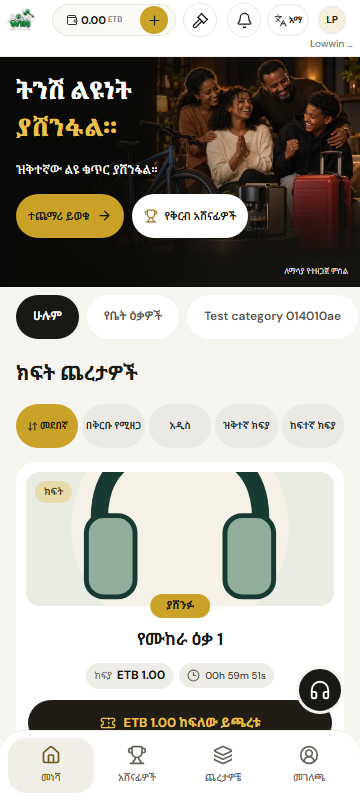
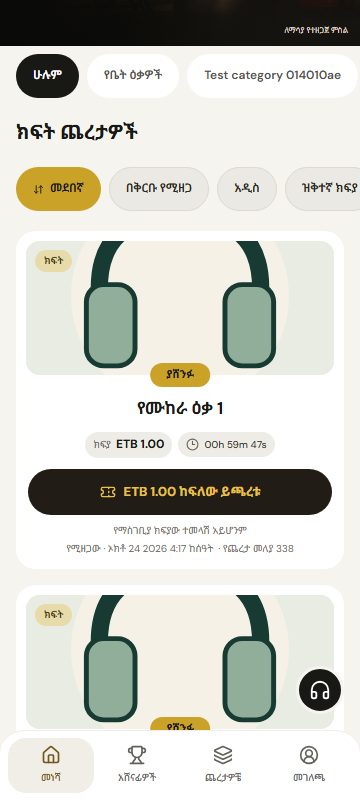
Add illustrated Home guide and scrollable sorting
Replace the separate Home footer with one Terms link inside the bilingual guide, retaining lazy Learn More and focus handling.

diff --git a/tests/redesign-browser/home-winners.spec.ts b/tests/redesign-browser/home-winners.spec.ts
@@ -26,15 +26,30 @@ test('homepage, final results, nested Back, live batches and Winners navigation'
   const navigation=page.getByRole('navigation',{name:'Your navigation'});await expect(navigation).toBeVisible();await expect(navigation.getByRole('link')).toHaveCount(4);
   await expect(navigation.getByRole('link',{name:'Home',exact:true})).toHaveAttribute('aria-current','page');
   const cards=page.locator('#discover-auctions .auction-card');await expect(cards).toHaveCount(10);
-  const sortLinks=page.getByRole('navigation',{name:'Auction sorting'}).getByRole('link');await expect(sortLinks).toHaveCount(5);
-  const checkSortFit=async()=>{const boxes=await sortLinks.evaluateAll(nodes=>nodes.map(node=>{const r=node.getBoundingClientRect();return {left:r.left,right:r.right,top:r.top,height:r.height,overflow:node.scrollWidth>node.clientWidth+1}}));for(const box of boxes){expect(box.left).toBeGreaterThanOrEqual(0);expect(box.right).toBeLessThanOrEqual(Number(info.project.name));expect(box.height).toBeGreaterThanOrEqual(44);expect(box.overflow).toBe(false);expect(Math.abs(box.top-boxes[0].top)).toBeLessThan(1)}};await checkSortFit();
+  const sortNav=page.getByRole('navigation',{name:'Auction sorting'}),sortLinks=sortNav.getByRole('link');await expect(sortLinks).toHaveCount(5);
+  const checkSortFit=async(language:'en'|'am'='en')=>{
+   expect(await sortNav.evaluate(node=>getComputedStyle(node).overflowX)).toMatch(/auto|scroll/);
+   const boxes=await sortLinks.evaluateAll(nodes=>nodes.map(node=>{const r=node.getBoundingClientRect(),label=node.querySelector('span')??node;const range=document.createRange();range.selectNodeContents(label);return {top:r.top,height:r.height,overflow:node.scrollWidth>node.clientWidth+1,labelHeight:range.getBoundingClientRect().height,lineHeight:parseFloat(getComputedStyle(label).lineHeight)||parseFloat(getComputedStyle(label).fontSize)*1.5}}));
+   for(const box of boxes){expect(box.height).toBeGreaterThanOrEqual(44);expect(box.overflow).toBe(false);expect(box.labelHeight).toBeLessThanOrEqual(box.lineHeight*1.5);expect(Math.abs(box.top-boxes[0].top)).toBeLessThan(1)}
+   const canScroll=await sortNav.evaluate(node=>node.scrollWidth>node.clientWidth+1);await sortLinks.last().scrollIntoViewIfNeeded();await expect(sortLinks.last()).toBeInViewport({ratio:1});if(canScroll)expect(await sortNav.evaluate(node=>node.scrollLeft)).toBeGreaterThan(0);await sortNav.locator('a[aria-current="page"]').scrollIntoViewIfNeeded();await sortNav.screenshot({path:`${root}/sorts-${info.project.name}-${language}.png`});
+  };await checkSortFit();
+  const categoryBeforeSort=new URL(page.url()).searchParams.get('category');await sortLinks.last().click();await expect(page).toHaveURL(/sort=fee-high/);await expect(sortLinks.last()).toHaveAttribute('aria-current','page');await expect(sortLinks.last()).toBeInViewport({ratio:1});expect(new URL(page.url()).searchParams.get('q')).toBe(marker);expect(new URL(page.url()).searchParams.get('category')).toBe(categoryBeforeSort);
+  await sortLinks.first().click();await expect(sortLinks.first()).toHaveAttribute('aria-current','page');await expect(cards).toHaveCount(10);
   const firstCard=cards.first(),art=await firstCard.locator('.auction-card-art').boundingBox();expect(art!.width/art!.height).toBeCloseTo(2.3,1);await expect(firstCard.locator('.auction-card-win')).toHaveText('Win');
   const bidAction=firstCard.getByRole('button',{name:'Pay ETB 1.00 & bid',exact:true});expect((await bidAction.boundingBox())!.height).toBeGreaterThanOrEqual(46);await bidAction.click();await expect(page.getByRole('dialog')).toBeVisible();await page.keyboard.press('Escape');await expect(page.getByRole('dialog')).toHaveCount(0);
-  const selection=await page.locator('#recent-winners,nav[aria-label="Auction categories"],#discover-auctions').evaluateAll(nodes=>nodes.map(node=>node.id||node.getAttribute('aria-label')));expect(selection).toEqual(['Auction categories','discover-auctions','recent-winners']);
+  const selection=await page.locator('#recent-winners,nav[aria-label="Auction categories"],#discover-auctions,#how-lowwin-works').evaluateAll(nodes=>nodes.map(node=>node.id||node.getAttribute('aria-label')));expect(selection).toEqual(['Auction categories','discover-auctions','recent-winners','how-lowwin-works']);
   await page.getByRole('button',{name:'Load more',exact:true}).click();await expect(cards).toHaveCount(12);expect(new Set(await cards.locator('h3').allTextContents()).size).toBe(12);
   await page.getByRole('navigation',{name:'Auction sorting'}).getByRole('link',{name:'Lowest fee',exact:true}).click();await expect(cards).toHaveCount(10);await expect(page).toHaveURL(/sort=fee-low/);expect(new URL(page.url()).searchParams.get('q')).toBe(marker);
   await page.locator('#home-headline').scrollIntoViewIfNeeded();await page.screenshot({path:`${root}/home-${info.project.name}-en.png`});
   await cards.first().scrollIntoViewIfNeeded();await page.screenshot({path:`${root}/auction-card-${info.project.name}-en.png`});
+  const guide=page.locator('#how-lowwin-works');
+  const checkGuide=async(language:'en'|'am')=>{
+   await expect(guide.locator('ol>li')).toHaveCount(3);await expect(guide.locator('[data-example-number]')).toHaveCount(5);expect(await guide.locator('[data-example-number]').evaluateAll(nodes=>nodes.map(node=>node.textContent?.match(/\d+/)?.[0]))).toEqual(['2','2','4','5','5']);expect((await guide.locator('[data-example-number]').allTextContents()).every(text=>!text.includes('ETB'))).toBe(true);await expect(guide.locator('[data-winning-example]')).toHaveCount(1);await expect(guide.locator('[data-winning-example]')).toContainText('4');
+   await expect(guide.locator('a[href="/terms"]')).toHaveCount(1);if(language==='en')await expect(guide.getByRole('link',{name:'Terms and conditions apply',exact:true})).toHaveAttribute('href','/terms');await expect(page.locator('a[href="/terms"]')).toHaveCount(1);await expect(page.locator('.page-footer')).toHaveCount(0);expect(await guide.evaluate(node=>node.scrollWidth<=node.clientWidth)).toBe(true);
+   const learnButton=guide.getByRole('button',{name:language==='en'?'Learn more':'ተጨማሪ ይወቁ',exact:true});expect((await learnButton.boundingBox())!.height).toBeGreaterThanOrEqual(44);await guide.scrollIntoViewIfNeeded();await guide.screenshot({path:`${root}/guide-${info.project.name}-${language}.png`});
+   await learnButton.click();await expect(page.getByRole('dialog')).toBeVisible();await page.keyboard.press('Escape');await expect(page.getByRole('dialog')).toHaveCount(0);await expect(learnButton).toBeFocused();
+   await learnButton.click();await expect(page.getByRole('dialog')).toBeVisible();await page.goBack();await expect(page.getByRole('dialog')).toHaveCount(0);await expect(learnButton).toBeFocused();
+  };await checkGuide('en');
   await page.locator('#recent-winners').scrollIntoViewIfNeeded();await page.screenshot({path:`${root}/recent-winners-${info.project.name}-en.png`});
   const winner=page.locator('#recent-winners').getByRole('button',{name:`Result: ${fixture.title}`,exact:true});await winner.click();
   const result=page.getByRole('dialog',{name:'Final result',exact:true});await expect(result.locator('[data-result-amount]')).toHaveCount(20);
@@ -49,7 +64,7 @@ test('homepage, final results, nested Back, live batches and Winners navigation'
   await page.getByRole('textbox',{name:'Search auctions'}).fill(marker);await page.getByRole('button',{name:'Search',exact:true}).click();await page.getByRole('navigation',{name:'Auction status'}).getByRole('link',{name:'Upcoming',exact:true}).click();await expect(page.locator('.auction-card')).toHaveCount(0);
   await navigation.getByRole('link',{name:'My Bids',exact:true}).click();await expect(page).toHaveURL(/\/my-bids$/);await navigation.getByRole('link',{name:'Profile',exact:true}).click();await expect(page).toHaveURL(/\/profile$/);
   await page.goto('/?q='+encodeURIComponent(marker));const header=page.getByRole('banner',{name:'Mini App header'});await header.getByRole('button',{name:'Language: English',exact:true}).click();await page.getByRole('menuitemradio',{name:'አማርኛ',exact:true}).click();await expect(page.locator('html')).toHaveAttribute('lang','am');await expect(page.getByRole('navigation',{name:'Your navigation'})).toContainText('አሸናፊዎች');
-  await checkSortFit();await cards.first().scrollIntoViewIfNeeded();await page.screenshot({path:`${root}/auction-card-${info.project.name}-am.png`});
+  await checkSortFit('am');await checkGuide('am');await cards.first().scrollIntoViewIfNeeded();await page.screenshot({path:`${root}/auction-card-${info.project.name}-am.png`});
   await page.locator('#home-headline').scrollIntoViewIfNeeded();await page.screenshot({path:`${root}/home-${info.project.name}-am.png`});
   await page.locator('section[aria-labelledby="home-headline"]').getByRole('button',{name:'ተጨማሪ ይወቁ',exact:true}).click();const learn=page.getByRole('dialog');await expect(learn.locator('ol>li')).toHaveCount(3);await expect(learn.locator('iframe,video')).toHaveCount(0);await page.screenshot({path:`${root}/learn-more-${info.project.name}-am.png`});await page.goBack();await expect(learn).toHaveCount(0);
   expect(await page.evaluate(()=>document.documentElement.scrollWidth<=innerWidth)).toBe(true);expect(errors).toEqual([]);expect(await reconcile(db)).toEqual([]);

diff --git a/src/components/home-auctions.tsx b/src/components/home-auctions.tsx
@@ -4,7 +4,7 @@ import {useEffect,useRef,useState} from 'react';
 import {ArrowDownUp} from 'lucide-react';
 import type {CatalogQuery,listAuctions} from '@/modules/auctions/catalog';
 import {AuctionCard} from './auction-card';
-import {MiniPhrase} from './mini-locale';
+import {MiniPhrase,useMiniLocale} from './mini-locale';
 import {usePrivateQuery} from './private-query';
 import styles from './home-banner.module.css';
 type Batch=Awaited<ReturnType<typeof listAuctions>>;
@@ -12,11 +12,13 @@ export function homeAuctionHref(query:CatalogQuery,patch:Partial<CatalogQuery>={
  const next={...query,...patch},params=new URLSearchParams();if(next.category)params.set('category',next.category);if(next.sort!=='code')params.set('sort',next.sort);if(next.q)params.set('q',next.q);return '/'+(params.size?'?'+params:'');
 }
 export function HomeAuctions({initial,query}:{initial:Batch;query:CatalogQuery}){
+ const {language}=useMiniLocale(),sortRow=useRef<HTMLElement>(null);
  const [items,setItems]=useState(initial.items),[serverNow,setServerNow]=useState(initial.serverNow),[page,setPage]=useState(1),[totalPages,setTotalPages]=useState(initial.totalPages),[busy,setBusy]=useState(false),pending=useRef(false);
  const params=new URLSearchParams({view:'home',status:'live',sort:query.sort,page:String(page),...(query.category?{category:query.category}:{}),...(query.q?{q:query.q}:{})});
  const batch=usePrivateQuery<Batch>('/api/catalog/auctions?'+params,{enabled:page>1});
+ useEffect(()=>{const row=sortRow.current,selected=row?.querySelector<HTMLElement>('[aria-current="page"]');if(!row||!selected)return;const left=selected.getBoundingClientRect().left-row.getBoundingClientRect().left;if(left<16)row.scrollLeft+=left-16;else if(left+selected.offsetWidth>row.clientWidth-16)row.scrollLeft+=left+selected.offsetWidth-row.clientWidth+16},[query.sort,language]);
  useEffect(()=>{if(page<=1||!batch.data)return;const data=batch.data;setItems(previous=>{const codes=new Set(previous.map(item=>item.code));return [...previous,...data.items.filter(item=>!codes.has(item.code))]});setServerNow(new Date(Date.parse(data.serverNow)+Math.max(0,Date.now()-batch.updatedAt)).toISOString());setTotalPages(data.totalPages);pending.current=false;setBusy(false)},[batch.data,batch.updatedAt,page]);
  useEffect(()=>{if(batch.error){pending.current=false;setBusy(false)}},[batch.error]);
  const sorts=[['code','Default','መደበኛ'],['ending','Ends soon','በቅርቡ የሚዘጋ'],['newest','New','አዲስ'],['fee-low','Lowest fee','ዝቅተኛ ክፍያ'],['fee-high','Highest fee','ከፍተኛ ክፍያ']] as const;
- return <section id="discover-auctions" className={`${styles.section} ${styles.homeFeed}`}><h2 className={styles.feedTitle}><MiniPhrase en="Live auctions" am="ክፍት ጨረታዎች"/></h2><nav className={styles.sortChips} aria-label="Auction sorting">{sorts.map(([value,en,am])=><Link key={value} aria-current={query.sort===value?'page':undefined} href={homeAuctionHref(query,{sort:value})}>{value==='code'&&<ArrowDownUp size={11} aria-hidden="true"/>}<span><MiniPhrase en={en} am={am}/></span></Link>)}</nav><div className={styles.list}>{items.map(item=><AuctionCard key={item.code} auction={item} serverNow={serverNow}/>)}</div>{!items.length&&<p className={styles.empty}><MiniPhrase en="No live auctions in this category yet. Choose another category or check back soon." am="በዚህ ምድብ ክፍት ጨረታ ገና የለም። ሌላ ምድብ ይምረጡ ወይም በቅርቡ ይመለሱ።"/></p>}{batch.error?<div role="alert" className={styles.loadMore}><p><MiniPhrase en="Could not load more auctions." am="ተጨማሪ ጨረታዎችን ማምጣት አልተቻለም።"/></p><button onClick={()=>batch.reload()}><MiniPhrase en="Retry" am="እንደገና ይሞክሩ"/></button></div>:(page<totalPages||busy)&&<div className={styles.loadMore}><button disabled={busy} onClick={()=>{if(pending.current)return;pending.current=true;setBusy(true);setPage(value=>value+1)}}><MiniPhrase en={busy?'Loading…':'Load more'} am={busy?'በመጫን ላይ…':'ተጨማሪ አሳይ'}/></button></div>}</section>;
+ return <section id="discover-auctions" className={`${styles.section} ${styles.homeFeed}`}><h2 className={styles.feedTitle}><MiniPhrase en="Live auctions" am="ክፍት ጨረታዎች"/></h2><nav ref={sortRow} className={styles.sortChips} aria-label="Auction sorting">{sorts.map(([value,en,am])=><Link key={value} aria-current={query.sort===value?'page':undefined} href={homeAuctionHref(query,{sort:value})}>{value==='code'&&<ArrowDownUp size={11} aria-hidden="true"/>}<span><MiniPhrase en={en} am={am}/></span></Link>)}</nav><div className={styles.list}>{items.map(item=><AuctionCard key={item.code} auction={item} serverNow={serverNow}/>)}</div>{!items.length&&<p className={styles.empty}><MiniPhrase en="No live auctions in this category yet. Choose another category or check back soon." am="በዚህ ምድብ ክፍት ጨረታ ገና የለም። ሌላ ምድብ ይምረጡ ወይም በቅርቡ ይመለሱ።"/></p>}{batch.error?<div role="alert" className={styles.loadMore}><p><MiniPhrase en="Could not load more auctions." am="ተጨማሪ ጨረታዎችን ማምጣት አልተቻለም።"/></p><button onClick={()=>batch.reload()}><MiniPhrase en="Retry" am="እንደገና ይሞክሩ"/></button></div>:(page<totalPages||busy)&&<div className={styles.loadMore}><button disabled={busy} onClick={()=>{if(pending.current)return;pending.current=true;setBusy(true);setPage(value=>value+1)}}><MiniPhrase en={busy?'Loading…':'Load more'} am={busy?'በመጫን ላይ…':'ተጨማሪ አሳይ'}/></button></div>}</section>;
 }

diff --git a/src/components/home-how-it-works.tsx b/src/components/home-how-it-works.tsx
@@ -1,12 +1,24 @@
 'use client';
 import dynamic from 'next/dynamic';
+import Link from 'next/link';
 import {useRef,useState} from 'react';
-import {ArrowRight} from 'lucide-react';
-import {MiniPhrase} from './mini-locale';
+import {ArrowRight,Hash,TicketCheck,Trophy} from 'lucide-react';
+import {MiniPhrase,useMiniLocale} from './mini-locale';
 import type {LearnMoreMedia} from '@/lib/learn-more-media';
-import styles from './home-banner.module.css';
+import styles from './home-how-it-works.module.css';
 const LearnMoreSheet=dynamic(()=>import('./learn-more-sheet'));
+const steps=[
+ {Icon:Hash,title:'Choose your number',titleAm:'ቁጥርዎን ይምረጡ',body:'Read the terms and choose a number. Entries stay private until the final result.',bodyAm:'ውሎቹን ያንብቡና ቁጥርዎን ይምረጡ። የቀረቡ ቁጥሮች ውጤቱ እስኪረጋገጥ ድረስ የግል ናቸው።'},
+ {Icon:TicketCheck,title:'Confirm your entry',titleAm:'ክፍያውን ያረጋግጡ',body:'Review the submission fee and confirm your entry. Check My Bids for your receipt.',bodyAm:'የማስገቢያ ክፍያውን ይመልከቱና ያረጋግጡ። ደረሰኝዎን በ«ጨረታዎቼ» ይመልከቱ።'},
+ {Icon:Trophy,title:'Lowest unique wins',titleAm:'ዝቅተኛው ልዩ ያሸንፋል',body:'The lowest number entered exactly once wins. View the confirmed result after closing.',bodyAm:'አንድ ጊዜ ብቻ የቀረበው ዝቅተኛ ቁጥር ያሸንፋል። ከመዝጊያ በኋላ የተረጋገጠውን ውጤት ይመልከቱ።'},
+];
 export function HomeHowItWorks({media}:{media:LearnMoreMedia|null}){
- const [open,setOpen]=useState(false),trigger=useRef<HTMLButtonElement>(null);
- return <><section id="how-lowwin-works" className={styles.help}><h2><MiniPhrase en="How bidding works" am="ጨረታው እንዴት ይሠራል"/></h2><p><MiniPhrase en="Understand the fee, choose your number, and return for the final result." am="ክፍያውን ይረዱ፣ ቁጥርዎን ይምረጡ እና የመጨረሻ ውጤቱን ይመልከቱ።"/></p><button ref={trigger} className={styles.howAction} onClick={()=>setOpen(true)}><MiniPhrase en="Learn more" am="ተጨማሪ ይወቁ"/><ArrowRight size={16}/></button></section>{open&&<LearnMoreSheet media={media} onClose={()=>setOpen(false)} returnFocusRef={trigger}/>}</>;
+ const [open,setOpen]=useState(false),trigger=useRef<HTMLButtonElement>(null),{language}=useMiniLocale();
+ return <><section id="how-lowwin-works" aria-labelledby="how-bidding-title" className={styles.guide}>
+  <header className={styles.heading}><h2 id="how-bidding-title"><MiniPhrase en="How bidding works" am="ጨረታው እንዴት ይሠራል"/></h2><p><MiniPhrase en="Three simple steps to take part." am="ለመሳተፍ ሶስት ቀላል ደረጃዎች።"/></p></header>
+  <ol className={styles.steps}>{steps.map(({Icon,title,titleAm,body,bodyAm},index)=><li key={title}><div className={styles.illustration} aria-hidden="true"><Icon size={28} strokeWidth={1.65}/><span>{index+1}</span></div><div><h3><MiniPhrase en={title} am={titleAm}/></h3><p><MiniPhrase en={body} am={bodyAm}/></p></div></li>)}</ol>
+  <div className={styles.example} role="group" aria-label={language==='am'?'የጨረታ ምሳሌ':'Bidding example'}><h3><MiniPhrase en="A quick example" am="ቀላል ምሳሌ"/></h3><div className={styles.numbers} role="group" aria-label="2, 2, 4, 5, 5">{[2,2,4,5,5].map((number,index)=><span key={index} data-example-number={number} data-winning-example={number===4||undefined} className={number===4?styles.winningNumber:styles.repeatedNumber}>{number===4&&<Trophy size={11} aria-hidden="true"/>}<strong>{number}</strong></span>)}</div><p><MiniPhrase en="4 wins: it is the lowest number picked once." am="4 አንድ ጊዜ ብቻ የቀረበ ዝቅተኛ ቁጥር ስለሆነ ያሸንፋል።"/></p></div>
+  <p className={styles.rules}><MiniPhrase en="Fee-only auctions charge the submission fee, never your chosen number. Older auctions follow their published terms." am="በማስገቢያ ክፍያ ብቻ በሚካሄዱ ጨረታዎች፣ የመረጡት ቁጥር አይከፈልም። የቆዩ ጨረታዎች የታተሙ ውሎቻቸውን ይከተላሉ።"/></p>
+  <div className={styles.actions}><button type="button" ref={trigger} aria-haspopup="dialog" onClick={()=>setOpen(true)}><MiniPhrase en="Learn more" am="ተጨማሪ ይወቁ"/><ArrowRight size={15} aria-hidden="true"/></button><Link href="/terms"><MiniPhrase en="Terms and conditions apply" am="ውሎችና ሁኔታዎች ይተገበራሉ"/></Link></div>
+ </section>{open&&<LearnMoreSheet media={media} onClose={()=>setOpen(false)} returnFocusRef={trigger}/>}</>;
 }

diff --git a/src/components/home-how-it-works.module.css b/src/components/home-how-it-works.module.css
@@ -1,0 +1,7 @@
+.guide{margin:14px 16px 8px;padding:24px 18px 10px;border:1px solid #e8e4d9;border-radius:28px;background:#fff;color:#181815}
+.heading{text-align:center;margin-bottom:26px}.heading h2{margin:0;font-size:23px;font-weight:700;line-height:1.3;letter-spacing:-.03em}.heading p{margin:8px 0 0;color:#6b665b;font-size:12px;line-height:1.6}
+.steps{padding:0;margin:0 0 24px;list-style:none;display:grid;gap:24px}.steps li{position:relative;display:grid;grid-template-columns:50px minmax(0,1fr);gap:16px;align-items:start}.steps li:not(:last-child)::after{content:"";position:absolute;left:25px;top:59px;bottom:-15px;border-left:1px dashed #d9d1bd}.illustration{position:relative;display:grid;place-items:center;width:50px;height:54px;border:1px solid #e6dcc2;border-radius:16px;background:#f5f0e2;color:#826316}.illustration>span{position:absolute;bottom:-6px;right:-5px;display:grid;place-items:center;width:20px;height:20px;border:2px solid #fff;border-radius:50%;background:#181815;color:#fff;font-size:10px;font-weight:600;line-height:1}.steps h3{margin:0 0 6px;font-size:15px;font-weight:650;line-height:1.4;letter-spacing:-.02em}.steps p{margin:0;color:#625e54;font-size:12px;line-height:1.7}
+.example{padding:18px 14px 16px;border-radius:20px;background:#f2f0e9;text-align:center}.example h3{margin:0 0 14px;font-size:13px;font-weight:650;line-height:1.4}.numbers{display:grid;grid-template-columns:repeat(5,minmax(0,1fr));gap:7px;max-width:276px;margin:0 auto}.numbers>span{position:relative;display:grid;place-items:center;min-width:0;height:47px;border:1px solid #d9d5c9;border-radius:12px;background:#e9e6dd;color:#696356}.numbers strong{font-size:21px;font-weight:600;line-height:1;font-variant-numeric:tabular-nums}.numbers>.winningNumber{transform:translateY(-3px);border-color:#181815;background:#181815;color:#edca69;box-shadow:0 5px 9px rgb(24 24 21 / 12%)}.winningNumber svg{position:absolute;top:4px;right:4px}.repeatedNumber strong{text-decoration:line-through;text-decoration-color:#a6a092;text-decoration-thickness:1px}.example p{margin:13px 0 0;font-size:12px;line-height:1.65;color:#514c42}
+.rules{margin:17px 2px 0;font-size:11px;line-height:1.75;text-align:center;color:#6b665b}.actions{display:flex;flex-direction:column;align-items:center;gap:4px;margin-top:18px}.actions button{display:inline-flex;align-items:center;justify-content:center;gap:12px;min-height:44px;padding:10px 24px;border:0;border-radius:24px;background:var(--mini-action,#c9a227);color:#181815;font:inherit;font-size:12px;font-weight:650;line-height:1.5;cursor:pointer}.actions a{display:inline-flex;align-items:center;justify-content:center;min-height:44px;max-width:100%;padding:6px 4px;color:#655f51;font-size:11px;line-height:1.6;text-align:center;text-decoration:underline;text-decoration-color:#b7af9e;text-underline-offset:3px}.actions button:focus-visible,.actions a:focus-visible{outline:2px solid #987522;outline-offset:3px}.guide:lang(am) .heading h2{font-size:22px;line-height:1.5;letter-spacing:0}.guide:lang(am) .steps h3{font-size:14px;line-height:1.65;letter-spacing:0}.guide:lang(am) .steps p{line-height:1.8}.guide:lang(am) .rules{line-height:1.8}
+@media(hover:hover){.actions button:hover{background:var(--mini-action-hover,#b48e1d)}.actions a:hover{color:#181815}}
+@media(max-width:370px){.guide{padding-inline:16px}.steps li{gap:13px;grid-template-columns:46px minmax(0,1fr)}.illustration{width:46px;height:50px}.steps li:not(:last-child)::after{left:23px;top:55px}.heading h2{font-size:22px}.numbers{gap:6px}}

diff --git a/src/components/home-banner.module.css b/src/components/home-banner.module.css
@@ -26,5 +26,5 @@
 .winnersSection{padding:24px 0 18px}.winnersSection>.heading{padding:0 16px;margin-bottom:10px}
 .homeFeed{padding-top:4px}
 
-/* Keep all five sorting choices in one row at mobile widths. */
-.sortChips{display:grid;grid-template-columns:repeat(5,minmax(0,1fr));gap:4px;overflow:visible;margin:0 0 14px;padding:0}.sortChips a{min-width:0;min-height:44px;gap:3px;padding:6px 3px;border:1px solid transparent;border-radius:22px;background:#eae9e3;color:#292820;font-size:10px;line-height:1.3;text-align:center;white-space:normal}.sortChips a[aria-current=page]{background:var(--mini-action,#c9a227);color:#181815}.sortChips a svg{flex-shrink:0}.sortChips a span{min-width:0;overflow-wrap:anywhere}.sortChips a:lang(am){font-size:10px;line-height:1.45;padding-inline:2px;gap:2px}@media(min-width:400px){.sortChips a{font-size:11px}}
+/* Natural-width sorting pills follow the same horizontal rhythm as categories. */
+.sortChips{display:flex;gap:8px;overflow-x:auto;overflow-y:hidden;margin:0 -16px 14px;padding:4px 16px 6px;scrollbar-width:none;overscroll-behavior-x:contain;scroll-padding-inline:16px}.sortChips::-webkit-scrollbar{display:none}.sortChips a{flex:none;min-width:max-content;min-height:44px;gap:6px;padding:8px 16px;border:1px solid #ddd9ce;border-radius:24px;background:#eae9e3;color:#292820;font-size:12px;line-height:1.5;text-align:center;white-space:nowrap}.sortChips a[aria-current=page]{border-color:transparent;background:var(--mini-action,#c9a227);color:#181815}.sortChips a svg{flex-shrink:0}.sortChips a span{white-space:nowrap;overflow-wrap:normal}.sortChips a:lang(am){font-size:12px;line-height:1.65;letter-spacing:0}

diff --git a/src/components/app-shell.tsx b/src/components/app-shell.tsx
@@ -1,22 +1,16 @@
 'use client';
-import Link from 'next/link';
-import {usePathname} from 'next/navigation';
 import {BottomNavigation} from './bottom-navigation';
 import {TelegramEntry} from './telegram-entry';
 import {MiniHeader} from './mini-header';
 import {useTelegram} from './telegram-provider';
-import {MiniPhrase} from './mini-locale';
-import {TelegramLink} from './telegram-link';
 import {TelegramSupportLink} from './telegram-support-link';
 
 export function AppShell({children,requireLaunch=false}:{children:React.ReactNode;requireLaunch?:boolean}){
- const path=usePathname();
  const {status}=useTelegram();
  if(requireLaunch&&status!=='authenticated')return <TelegramEntry/>;
  return <div className="app-frame">
   <MiniHeader/>
   <main id="main">{children}</main>
-  {path==='/'&&<footer className="page-footer"><div className="footer-links"><Link href="/faq"><MiniPhrase en="FAQ" am="ጥያቄዎች"/></Link><Link href="/terms"><MiniPhrase en="Terms & Conditions" am="ውሎች እና ደንቦች"/></Link><Link href="/privacy"><MiniPhrase en="Privacy" am="ግላዊነት"/></Link><TelegramLink>Telegram</TelegramLink></div><small>© 2026 Lowin · Telegram Mini App</small></footer>}
   <TelegramSupportLink/>
   <BottomNavigation/>
  </div>;

diff --git a/docs/redesign/home-guide.md b/docs/redesign/home-guide.md
@@ -1,0 +1,11 @@
+# Home bidding guide and scrolling controls
+
+The guide follows Recent winners and replaces the small help card with three illustrated steps and a clearly labeled number example. Repeated choices are crossed out; 4 is highlighted as the lowest unique example. English and Amharic explain submission-fee-only charging and retain the caveat for older published auction terms. Numbers are never presented as a new amount owed.
+
+Learn More opens the existing lazy sheet, with Escape/Back dismissal and focus restoration. The separate Home footer is removed. A single “Terms and conditions apply” link remains inside the guide; FAQ, Privacy and support remain accessible through Profile and the existing explanation sheet.
+
+Sorting chips now retain readable natural widths and scroll horizontally like categories. The selected chip stays visible when sorting or changing language. Search/category selection is preserved, with 44px tap targets and no clipped labels.
+
+Both focused optimized browser scenarios pass at 360px and 430px, covering English/Amharic guide structure, example numbers, section order, terms/footer behavior, horizontal scrolling, selection and Learn More focus. Typechecks pass in both checkouts; the optimized webpack build passes. No dependency, financial command, hosted database record or production setting changes for this follow-up.
+
+Full guide previews: [English](screenshots/home-guide/guide-430-en.png), [Amharic](screenshots/home-guide/guide-430-am.png). Scrolling controls: [360px English](screenshots/home-guide/sorts-360-en.png), [360px Amharic](screenshots/home-guide/sorts-360-am.png), [430px English](screenshots/home-guide/sorts-430-en.png), [430px Amharic](screenshots/home-guide/sorts-430-am.png). Captures use clearly labeled loopback QA data. Physical Telegram device review remains separate.

diff --git a/docs/redesign/auction-cards.md b/docs/redesign/auction-cards.md
@@ -2,7 +2,7 @@
 
 The existing product assets now sit in wide rounded image frames with truthful status badges and a small Win tab for live/upcoming listings. Titles, fee/countdown pills and the dark gold-text fee action are centered. Fee disclosure and the actual schedule/auction ID appear beneath the action. Paid entries display their exact submission fee; free entries retain Bid now. The existing BidSheet and financial behavior are unchanged.
 
-All five Home sorting chips fit one mobile row, with neutral inactive pills, a gold selected state and a small Default sorting icon. English and Amharic labels retain accessible tap targets and fit without horizontal overflow. Recent winners remains after the live list; the smaller category-to-heading gap is retained.
+Home sorting chips use readable natural widths in a horizontal scroll row, with neutral inactive pills, a gold selected state and a small Default sorting icon. English and Amharic labels retain accessible tap targets without compressed text. The selected chip stays visible after a sort/language change. Recent winners remains after the live list; the smaller category-to-heading gap is retained. See the [guide and current scrolling controls](home-guide.md).
 
 Typechecks and a fresh optimized webpack build pass. Both focused browser flows pass at 360px and 430px, checking English/Amharic chip geometry, text bounds, 44px controls, the image ratio, a 46px fee action and opening the existing BidSheet. The staging-result/catalog safety checks separately pass 36/36 cases.
 

diff --git a/docs/redesign/home-winners.md b/docs/redesign/home-winners.md
@@ -4,7 +4,7 @@
 
 ## Customer behavior
 
-- Home preserves the existing logo, compact account header and photographic banner. The order is main categories, sorting, live auctions in batches of ten, recent winners, then How Bidding Works and existing policy/support links. Category, search and sort survive pagination; duplicate auction codes are discarded.
+- Home preserves the existing logo, compact account header and photographic banner. The order is main categories, horizontally scrolling sorting, live auctions in batches of ten, recent winners, then the [illustrated bidding guide](home-guide.md). A single Terms and conditions apply link replaces the separate Home footer. Category, search and sort survive pagination; duplicate auction codes are discarded.
 - Bottom navigation is Home, Winners, My Bids and Profile. The header hammer opens auction browsing with Live and Upcoming tabs. Old Draws links resolve to Winners or Upcoming browsing as appropriate. Personal bids remain separate.
 - Winners contains genuine completed winner settlements only. Cards reuse product imagery; there are no fabricated announcements or unconsented winner portraits. Clearly labeled QA records in these screenshots exist only in disposable local databases.
 - The separately guarded [local staging preview](ui-preview-seed.md) can show labeled, committed demo settlements. Normal and production environments continue excluding demo/test-run results. [Current card styling and mobile captures](auction-cards.md).
